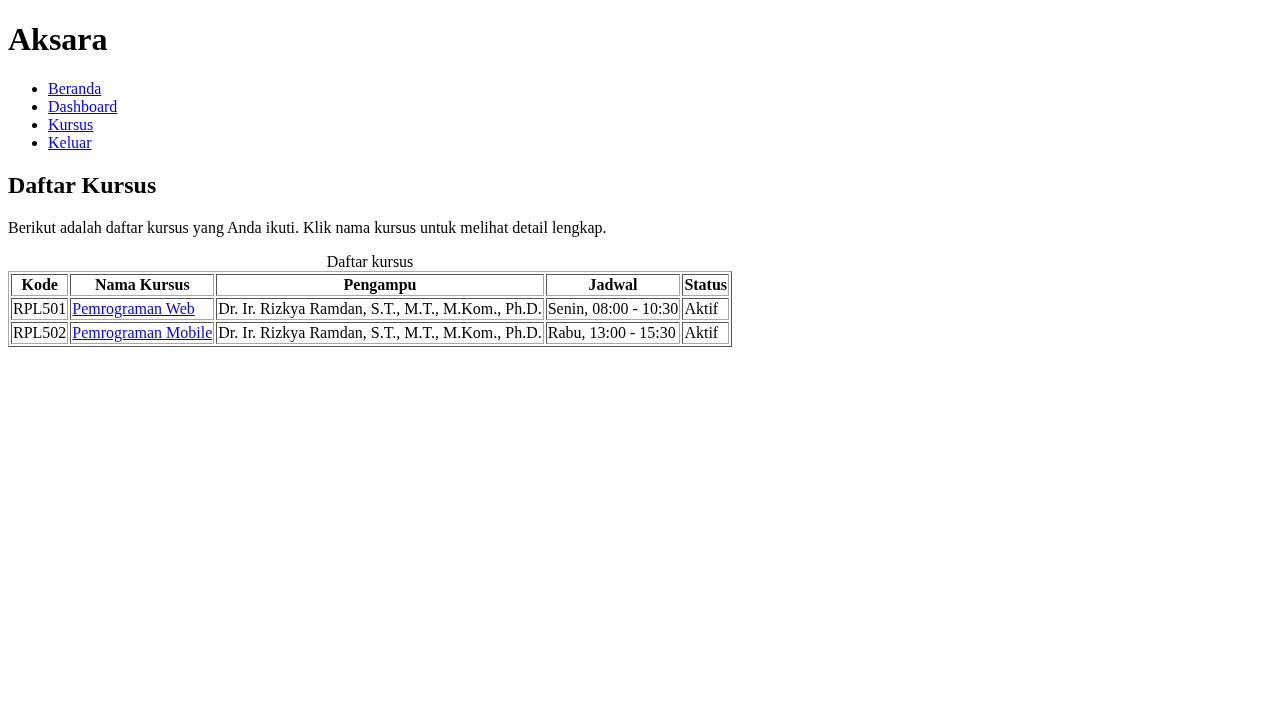
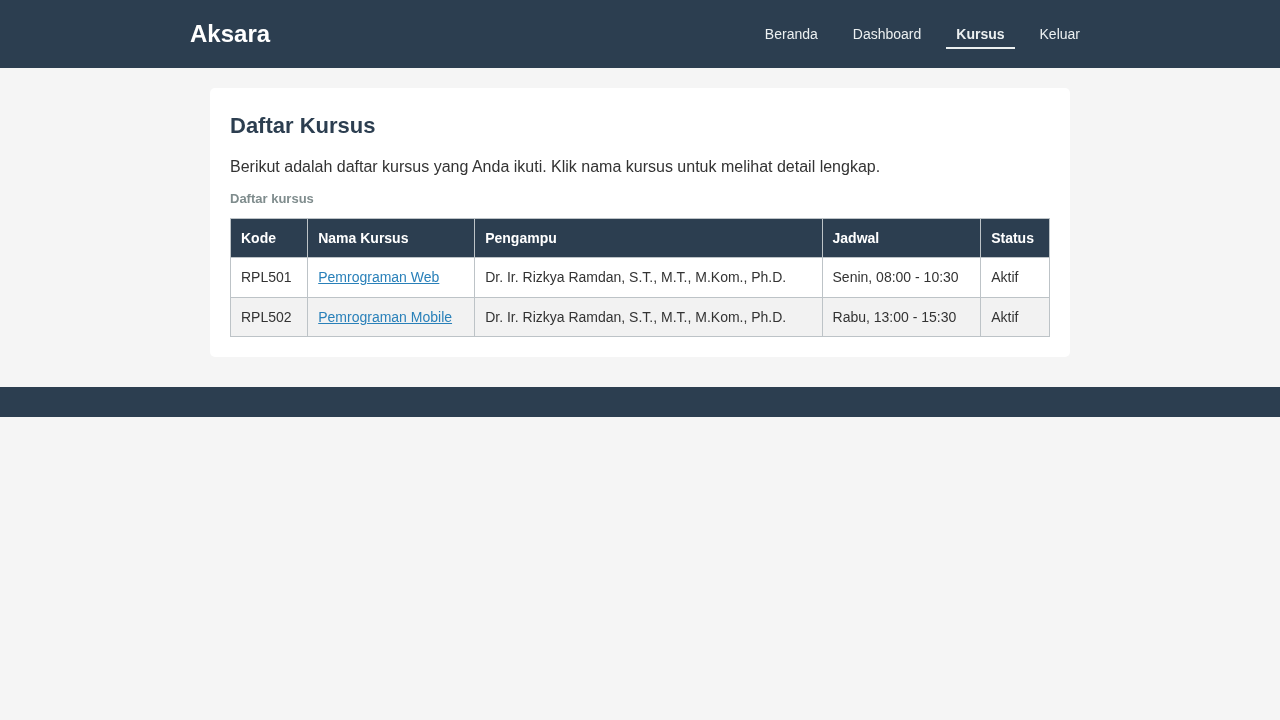
feat : bikin css biar bagus

diff --git a/style.css b/style.css
@@ -1,0 +1,288 @@
+* {
+    margin: 0;
+    padding: 0;
+    box-sizing: border-box;
+}
+
+body {
+    font-family: Arial, Helvetica, sans-serif;
+    font-size: 16px;
+    line-height: 1.6;
+    color: #333;
+    background-color: #f5f5f5;
+}
+
+header {
+    background-color: #2c3e50;
+    padding: 15px 20px;
+}
+
+nav {
+    display: flex;
+    align-items: center;
+    justify-content: space-between;
+    max-width: 900px;
+    margin: 0 auto;
+}
+
+nav h1 {
+    font-size: 24px;
+    font-weight: bold;
+    color: #fff;
+}
+
+nav ul {
+    list-style: none;
+    display: flex;
+    gap: 15px;
+}
+
+nav ul li a {
+    color: #ecf0f1;
+    text-decoration: none;
+    font-size: 14px;
+    padding: 5px 10px;
+}
+
+nav ul li a:hover {
+    text-decoration: underline;
+}
+
+nav ul li a[aria-current="page"] {
+    font-weight: bold;
+    border-bottom: 2px solid #ecf0f1;
+}
+
+main {
+    max-width: 900px;
+    margin: 20px auto;
+    padding: 0 20px;
+}
+
+section {
+    background-color: #fff;
+    padding: 20px;
+    margin-bottom: 20px;
+    border-radius: 5px;
+}
+
+h2 {
+    font-size: 22px;
+    font-weight: bold;
+    color: #2c3e50;
+    margin-bottom: 10px;
+    text-align: left;
+}
+
+h3 {
+    font-size: 18px;
+    font-weight: bold;
+    color: #34495e;
+    margin-bottom: 8px;
+}
+
+p {
+    margin-bottom: 10px;
+}
+
+a {
+    color: #2980b9;
+}
+
+#hero {
+    text-align: center;
+    background-color: #2c3e50;
+    color: #fff;
+    padding: 30px 20px;
+}
+
+#hero h2 {
+    color: #fff;
+    text-align: center;
+    font-size: 26px;
+}
+
+#hero a {
+    color: #f1c40f;
+    font-weight: bold;
+}
+
+#hero img {
+    max-width: 100%;
+    margin: 15px 0;
+    border-radius: 5px;
+}
+
+#cta {
+    text-align: center;
+    background-color: #3498db;
+    color: #fff;
+}
+
+#cta h2 {
+    color: #fff;
+    text-align: center;
+}
+
+#cta a {
+    color: #f1c40f;
+    font-weight: bold;
+}
+
+#fitur article {
+    background-color: #ecf0f1;
+    padding: 15px;
+    margin-bottom: 10px;
+    border-radius: 4px;
+}
+
+table {
+    width: 100%;
+    border-collapse: collapse;
+    margin-top: 10px;
+    font-size: 14px;
+}
+
+caption {
+    font-weight: bold;
+    margin-bottom: 8px;
+    text-align: left;
+    color: #7f8c8d;
+    font-size: 13px;
+}
+
+th, td {
+    border: 1px solid #bdc3c7;
+    padding: 8px 10px;
+    text-align: left;
+}
+
+th {
+    background-color: #2c3e50;
+    color: #fff;
+    font-weight: bold;
+}
+
+tr:nth-child(even) {
+    background-color: #f2f2f2;
+}
+
+fieldset {
+    border: 1px solid #bdc3c7;
+    padding: 20px;
+    border-radius: 5px;
+    margin-bottom: 15px;
+}
+
+legend {
+    font-weight: bold;
+    color: #2c3e50;
+    padding: 0 5px;
+}
+
+form div {
+    margin-bottom: 12px;
+}
+
+label {
+    display: block;
+    font-size: 14px;
+    font-weight: bold;
+    color: #34495e;
+    margin-bottom: 4px;
+}
+
+input[type="text"],
+input[type="password"],
+input[type="file"],
+select,
+textarea {
+    width: 100%;
+    padding: 8px;
+    font-size: 14px;
+    border: 1px solid #bdc3c7;
+    border-radius: 4px;
+    font-family: Arial, Helvetica, sans-serif;
+}
+
+button {
+    background-color: #2c3e50;
+    color: #fff;
+    border: none;
+    padding: 10px 20px;
+    font-size: 14px;
+    border-radius: 4px;
+    cursor: pointer;
+    margin-right: 8px;
+}
+
+button:hover {
+    background-color: #34495e;
+}
+
+button[type="reset"] {
+    background-color: #95a5a6;
+}
+
+button[type="reset"]:hover {
+    background-color: #7f8c8d;
+}
+
+dl {
+    margin-bottom: 10px;
+}
+
+dt {
+    font-weight: bold;
+    color: #2c3e50;
+    margin-top: 8px;
+}
+
+dd {
+    margin-left: 20px;
+    margin-bottom: 4px;
+}
+
+main ul, main ol {
+    margin-left: 20px;
+    margin-bottom: 10px;
+}
+
+main ul li, main ol li {
+    margin-bottom: 5px;
+    font-size: 15px;
+}
+
+footer {
+    background-color: #2c3e50;
+    color: #ecf0f1;
+    text-align: center;
+    padding: 15px;
+    margin-top: 30px;
+    font-size: 13px;
+}
+
+@media (max-width: 600px) {
+    nav {
+        flex-direction: column;
+        text-align: center;
+    }
+
+    nav ul {
+        flex-direction: column;
+        gap: 5px;
+        margin-top: 10px;
+    }
+
+    main {
+        padding: 0 10px;
+    }
+
+    table {
+        font-size: 12px;
+    }
+
+    th, td {
+        padding: 6px;
+    }
+}

diff --git a/assignment-submit.html b/assignment-submit.html
@@ -4,6 +4,7 @@
     <meta charset="UTF-8">
     <meta name="viewport" content="width=device-width, initial-scale=1.0">
     <title>Aksara</title>
+    <link rel="stylesheet" href="style.css">
 </head>
 <body>
     <header>

diff --git a/course-detail.html b/course-detail.html
@@ -4,6 +4,7 @@
     <meta charset="UTF-8">
     <meta name="viewport" content="width=device-width, initial-scale=1.0">
     <title>Aksara</title>
+    <link rel="stylesheet" href="style.css">
 </head>
 <body>
     <header>

diff --git a/courses.html b/courses.html
@@ -4,6 +4,7 @@
     <meta charset="UTF-8">
     <meta name="viewport" content="width=device-width, initial-scale=1.0">
     <title>Aksara</title>
+    <link rel="stylesheet" href="style.css">
 </head>
 <body>
     <header>

diff --git a/dashboard.html b/dashboard.html
@@ -4,6 +4,7 @@
     <meta charset="UTF-8">
     <meta name="viewport" content="width=device-width, initial-scale=1.0">
     <title>Aksara</title>
+    <link rel="stylesheet" href="style.css">
 </head>
 <body>
     <header>

diff --git a/index.html b/index.html
@@ -4,6 +4,7 @@
     <meta charset="UTF-8">
     <meta name="viewport" content="width=device-width, initial-scale=1.0">
     <title>Aksara</title>
+    <link rel="stylesheet" href="style.css">
 </head>
 <body>
     <header>

diff --git a/login.html b/login.html
@@ -4,6 +4,7 @@
     <meta charset="UTF-8">
     <meta name="viewport" content="width=device-width, initial-scale=1.0">
     <title>Aksara</title>
+    <link rel="stylesheet" href="style.css">
 </head>
 <body>
     <header>
